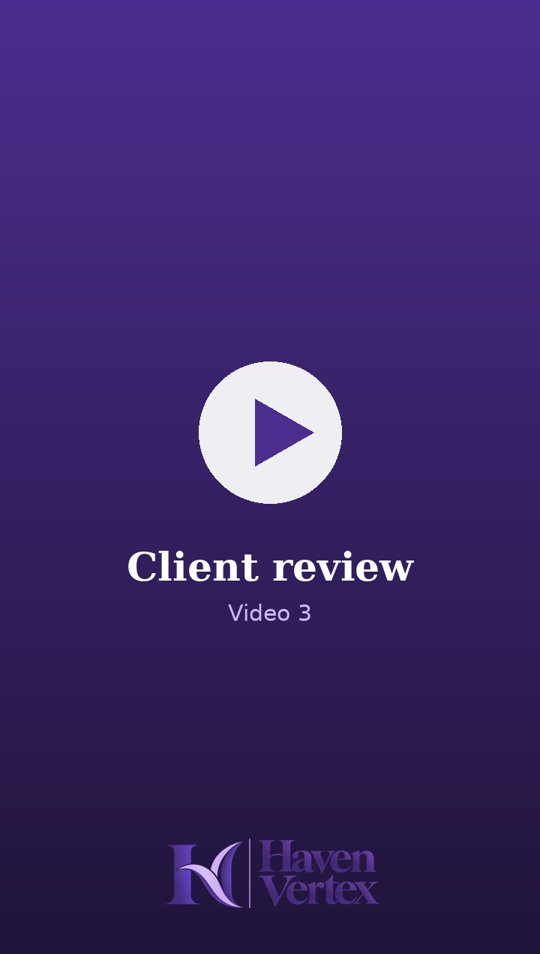
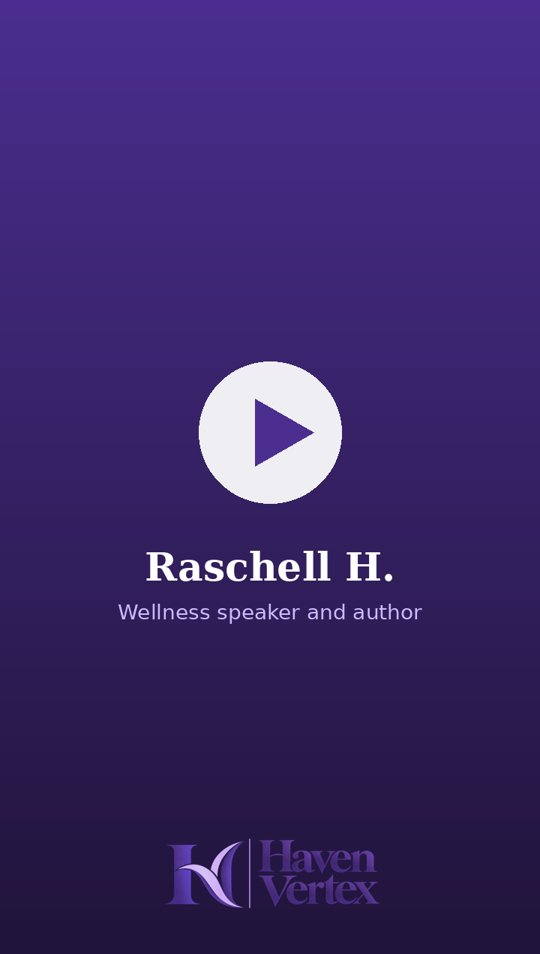
Name third video review Raschell H.
Claude-Session: https://claude.ai/code/session_011yQcQqLyJoT4eTdLfiDGen

Changed region(s): [[0.2074, 0.5776, 0.7704, 0.6688]]

diff --git a/src/lib/sanity/defaultContent.ts b/src/lib/sanity/defaultContent.ts
@@ -182,8 +182,8 @@ export const defaultTestimonialsSection: TestimonialsSectionContent = {
     },
     {
       type: "video",
-      clientName: "Client video 3",
-      company: "Haven Vertex client",
+      clientName: "Raschell H.",
+      company: "Wellness speaker and author",
       videoUrl: "/testimonials/client-4.mp4",
     },
     {
